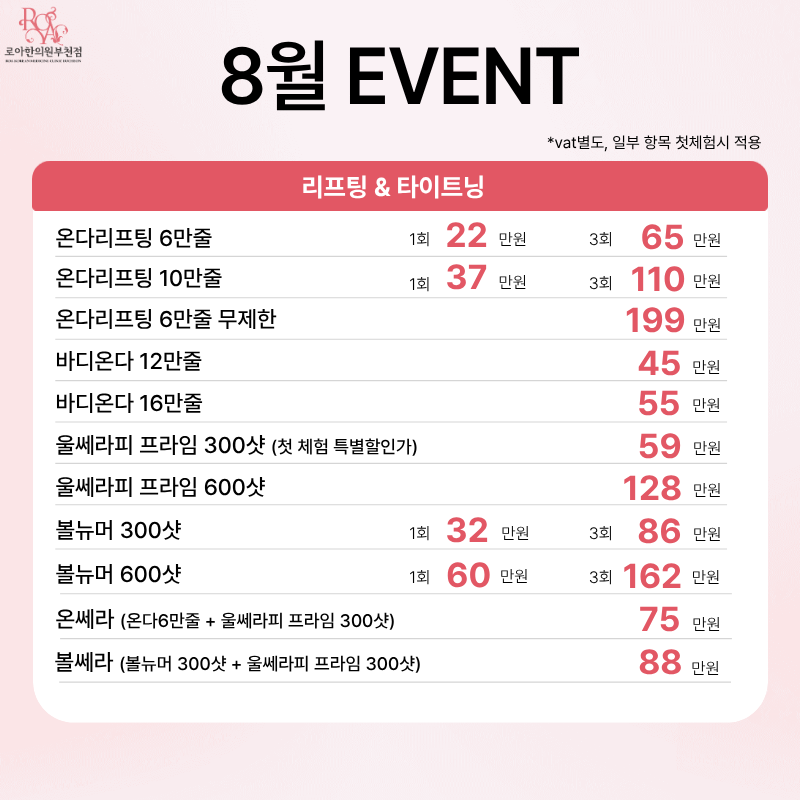
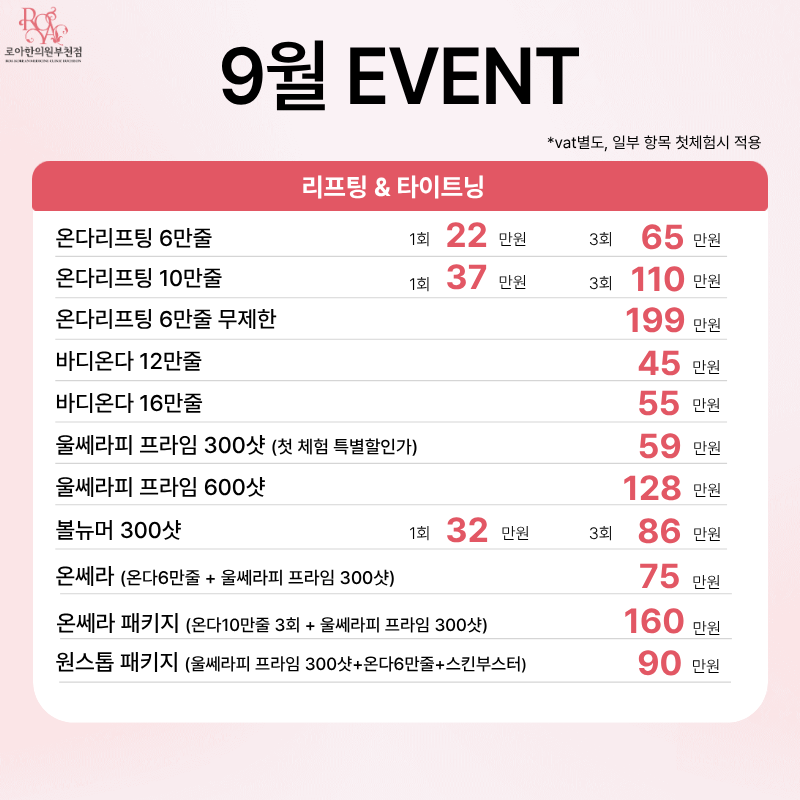
9월 이벤트 이미지 교체 및 팝업 순서 변경

Changed region(s): [[0.0625, 0.6875, 0.6562, 0.8438], [0.7812, 0.6875, 0.9062, 0.8438], [0.2812, 0.0625, 0.3438, 0.125]]

diff --git a/events.html b/events.html
@@ -244,7 +244,7 @@ const FIREBASE_URL = 'https://roa-clinic-default-rtdb.firebaseio.com/roa';
 const EVENT_CARDS = [
     { id: 'event1', name: '⚡ 타임특가 이벤트',  desc: '한정 수량 타임특가 할인',   img: 'images/popup-event1-mo.png', imgs: ['images/popup-event1-mo.png'], price: '문의' },
     { id: 'event2', name: '🌿 온다리프팅 이벤트', desc: '온다리프팅 특별 이벤트가',  img: 'images/popup-event2-mo.png', imgs: ['images/popup-event2-mo.png'], price: '문의' },
-    { id: 'event3', name: '🌟 8월 이벤트',       desc: '8월 한정 특별 이벤트',      img: 'images/popup-event3-mo.png', imgs: ['images/popup-event3-mo.png','images/popup-event4-mo.png'], price: '문의' },
+    { id: 'event3', name: '🌟 9월 이벤트',       desc: '9월 한정 특별 이벤트',      img: 'images/popup-event3-mo.png', imgs: ['images/popup-event3-mo.png','images/popup-event4-mo.png'], price: '문의' },
 ];
 
 const PROGRAMS = {

diff --git a/index.html b/index.html
@@ -2244,9 +2244,9 @@ function closeDoctorModal(e) {
 
 /* ═══ 이벤트 팝업 ═══ */
 const POPUP_EVENTS = [
+    { name: '🌟 9월 이벤트',       imgs: ['images/popup-event3-mo.png', 'images/popup-event4-mo.png'] },
     { name: '⚡ 타임특가 이벤트',  imgs: ['images/popup-event1-mo.png'] },
     { name: '🌿 온다리프팅 이벤트', imgs: ['images/popup-event2-mo.png'], wrap: true },
-    { name: '🌟 8월 이벤트',       imgs: ['images/popup-event3-mo.png', 'images/popup-event4-mo.png'] },
 ];
 let _evTabIdx = 0;
 let _evImgIdx = 0;
